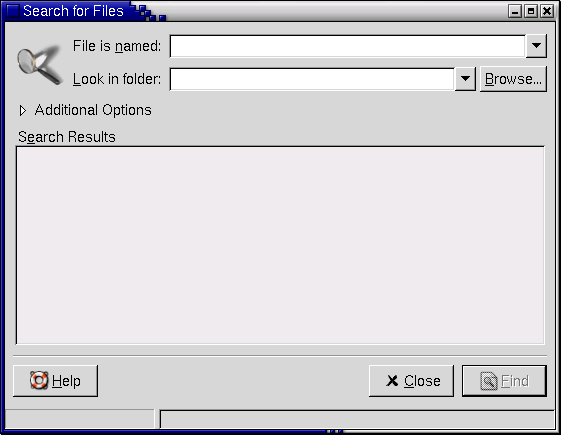
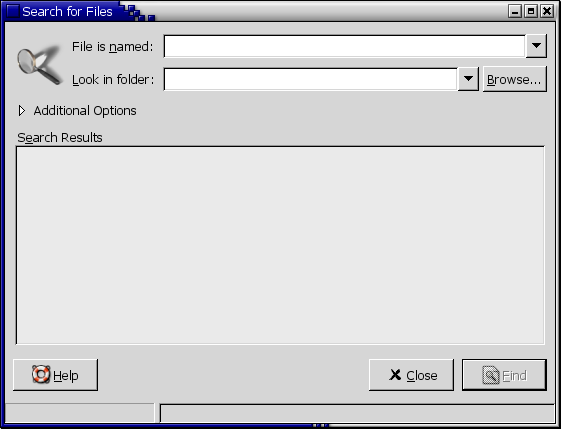
Removed the horizontal separator from above the button box.
2002-11-12  Dennis M. Cranston <dennis_cranston@yahoo.com>

	* gsearchtool.c:  Removed the horizontal separator from
	above the button box.

	* help/C/figures/gnome-search-tool_window.png:  Updated
	screenshot.

diff --git a/gsearchtool.c b/gsearchtool.c
@@ -1359,7 +1359,6 @@ create_main_window (void)
 	GtkWidget 	*entry;
 	GtkWidget 	*folder_entry;
 	GtkWidget 	*button;
-	GtkWidget 	*hsep;
 	GtkWidget 	*table;
 	GtkWidget 	*results;
 	GtkWidget 	*window;
@@ -1450,9 +1449,6 @@ create_main_window (void)
 	
 	results = create_search_results_section ();
 	gtk_box_pack_start (GTK_BOX(window), results, TRUE, TRUE, GNOME_PAD_SMALL);
-	
-	hsep = gtk_hseparator_new ();
-	gtk_box_pack_start (GTK_BOX(window),hsep,FALSE,FALSE,0);
 	
 	hbox = gtk_hbutton_box_new ();
 	gtk_button_box_set_layout (GTK_BUTTON_BOX(hbox), GTK_BUTTONBOX_END);
